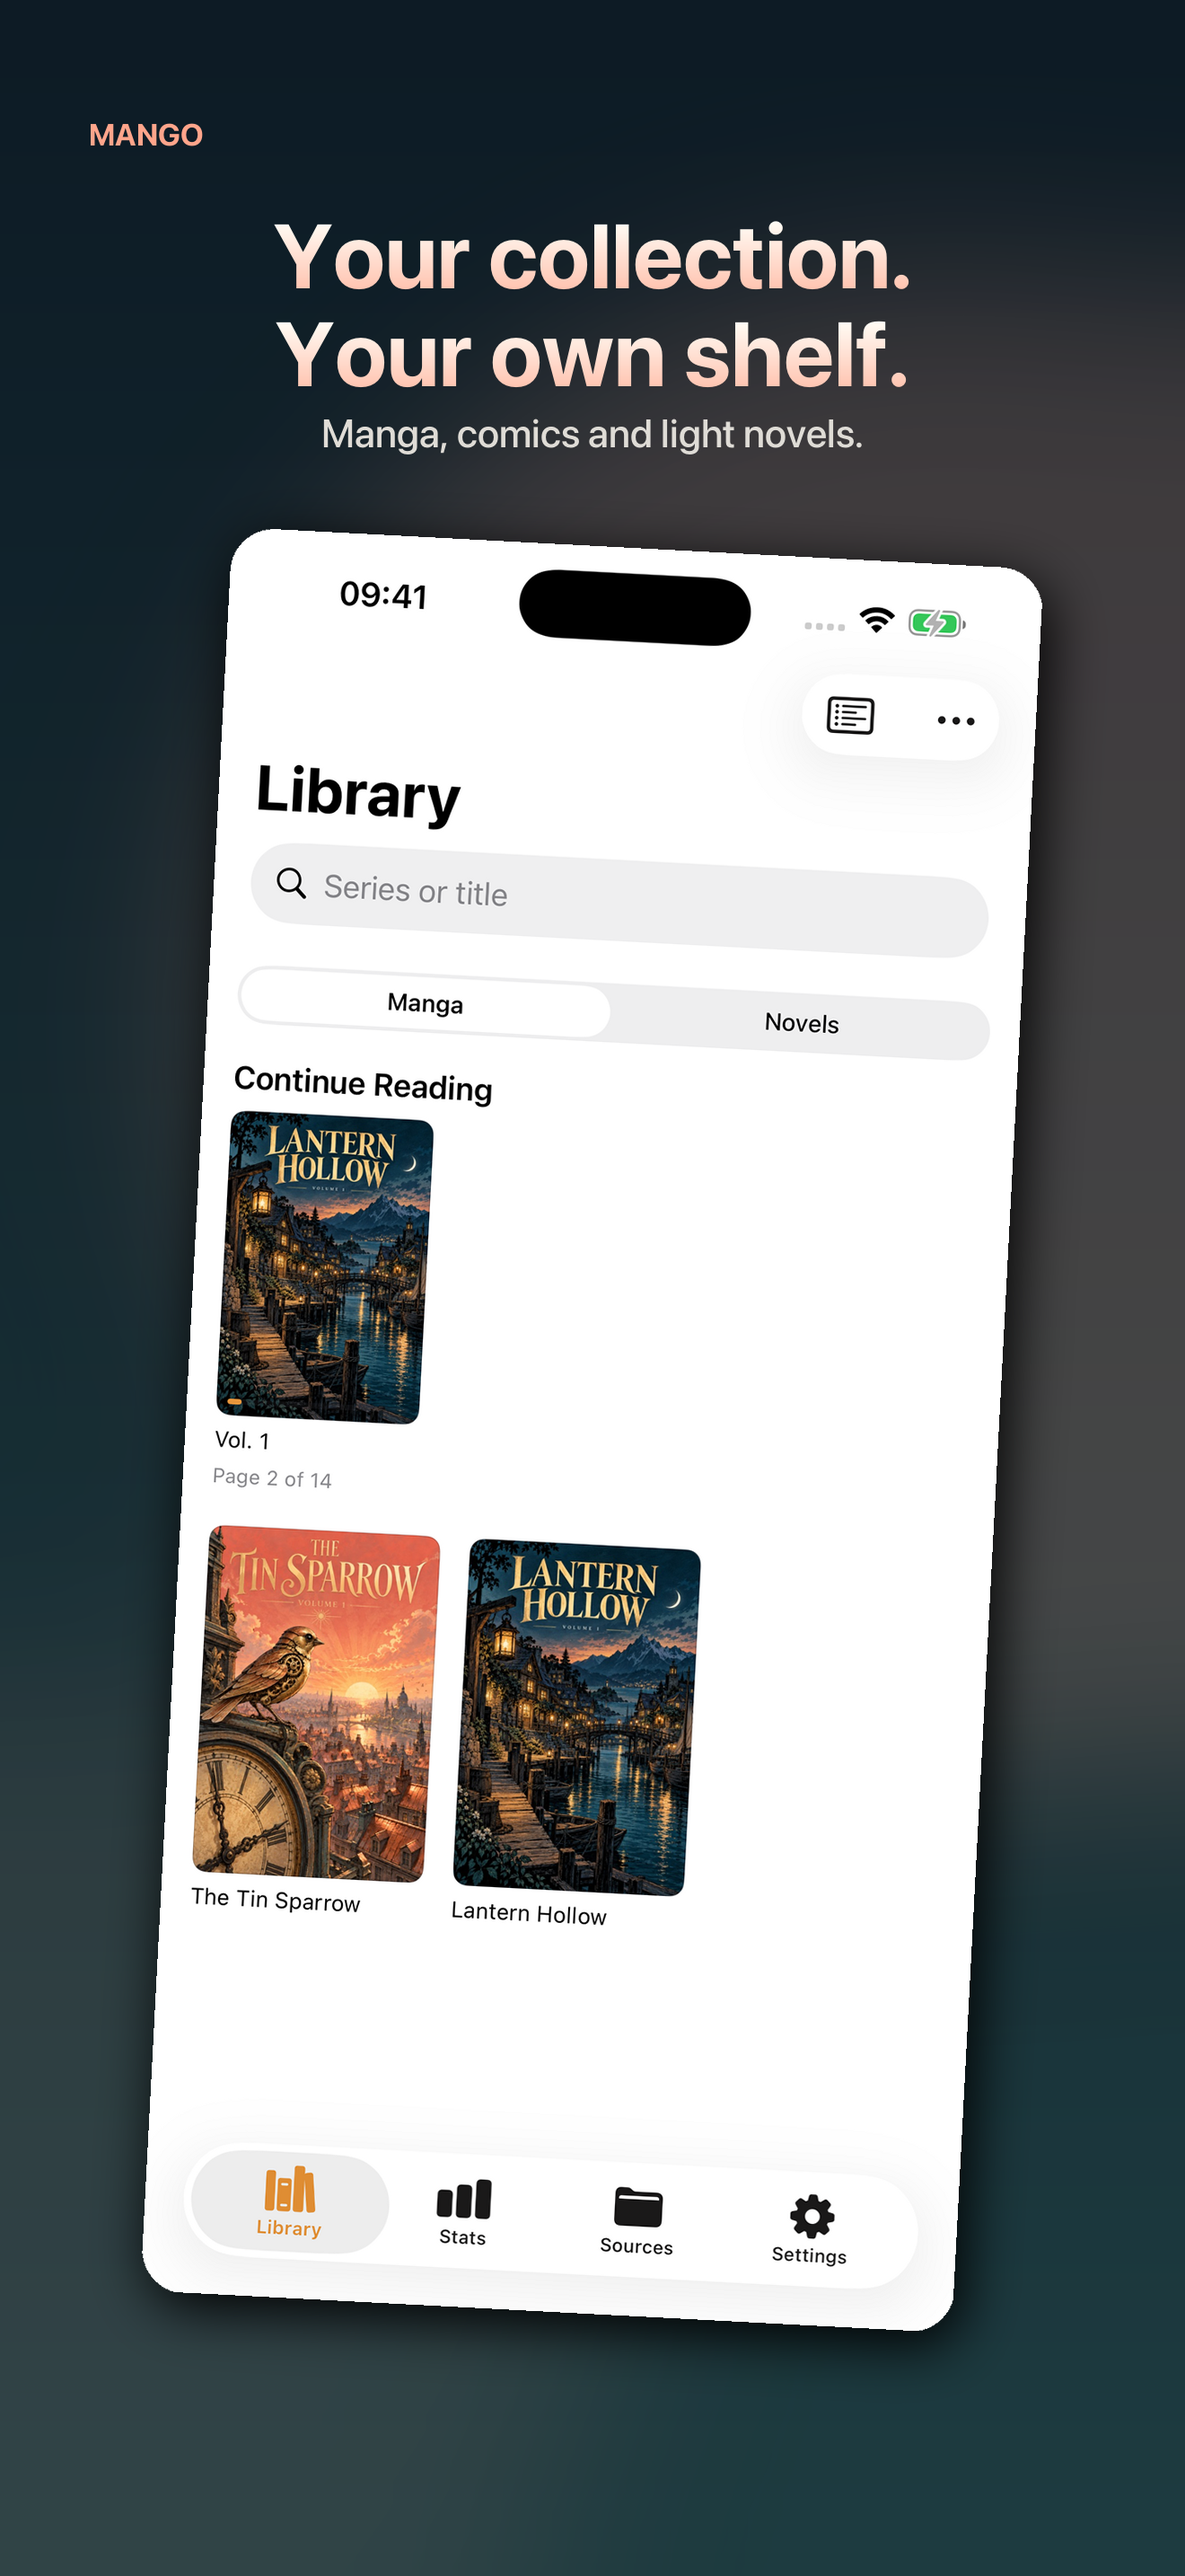
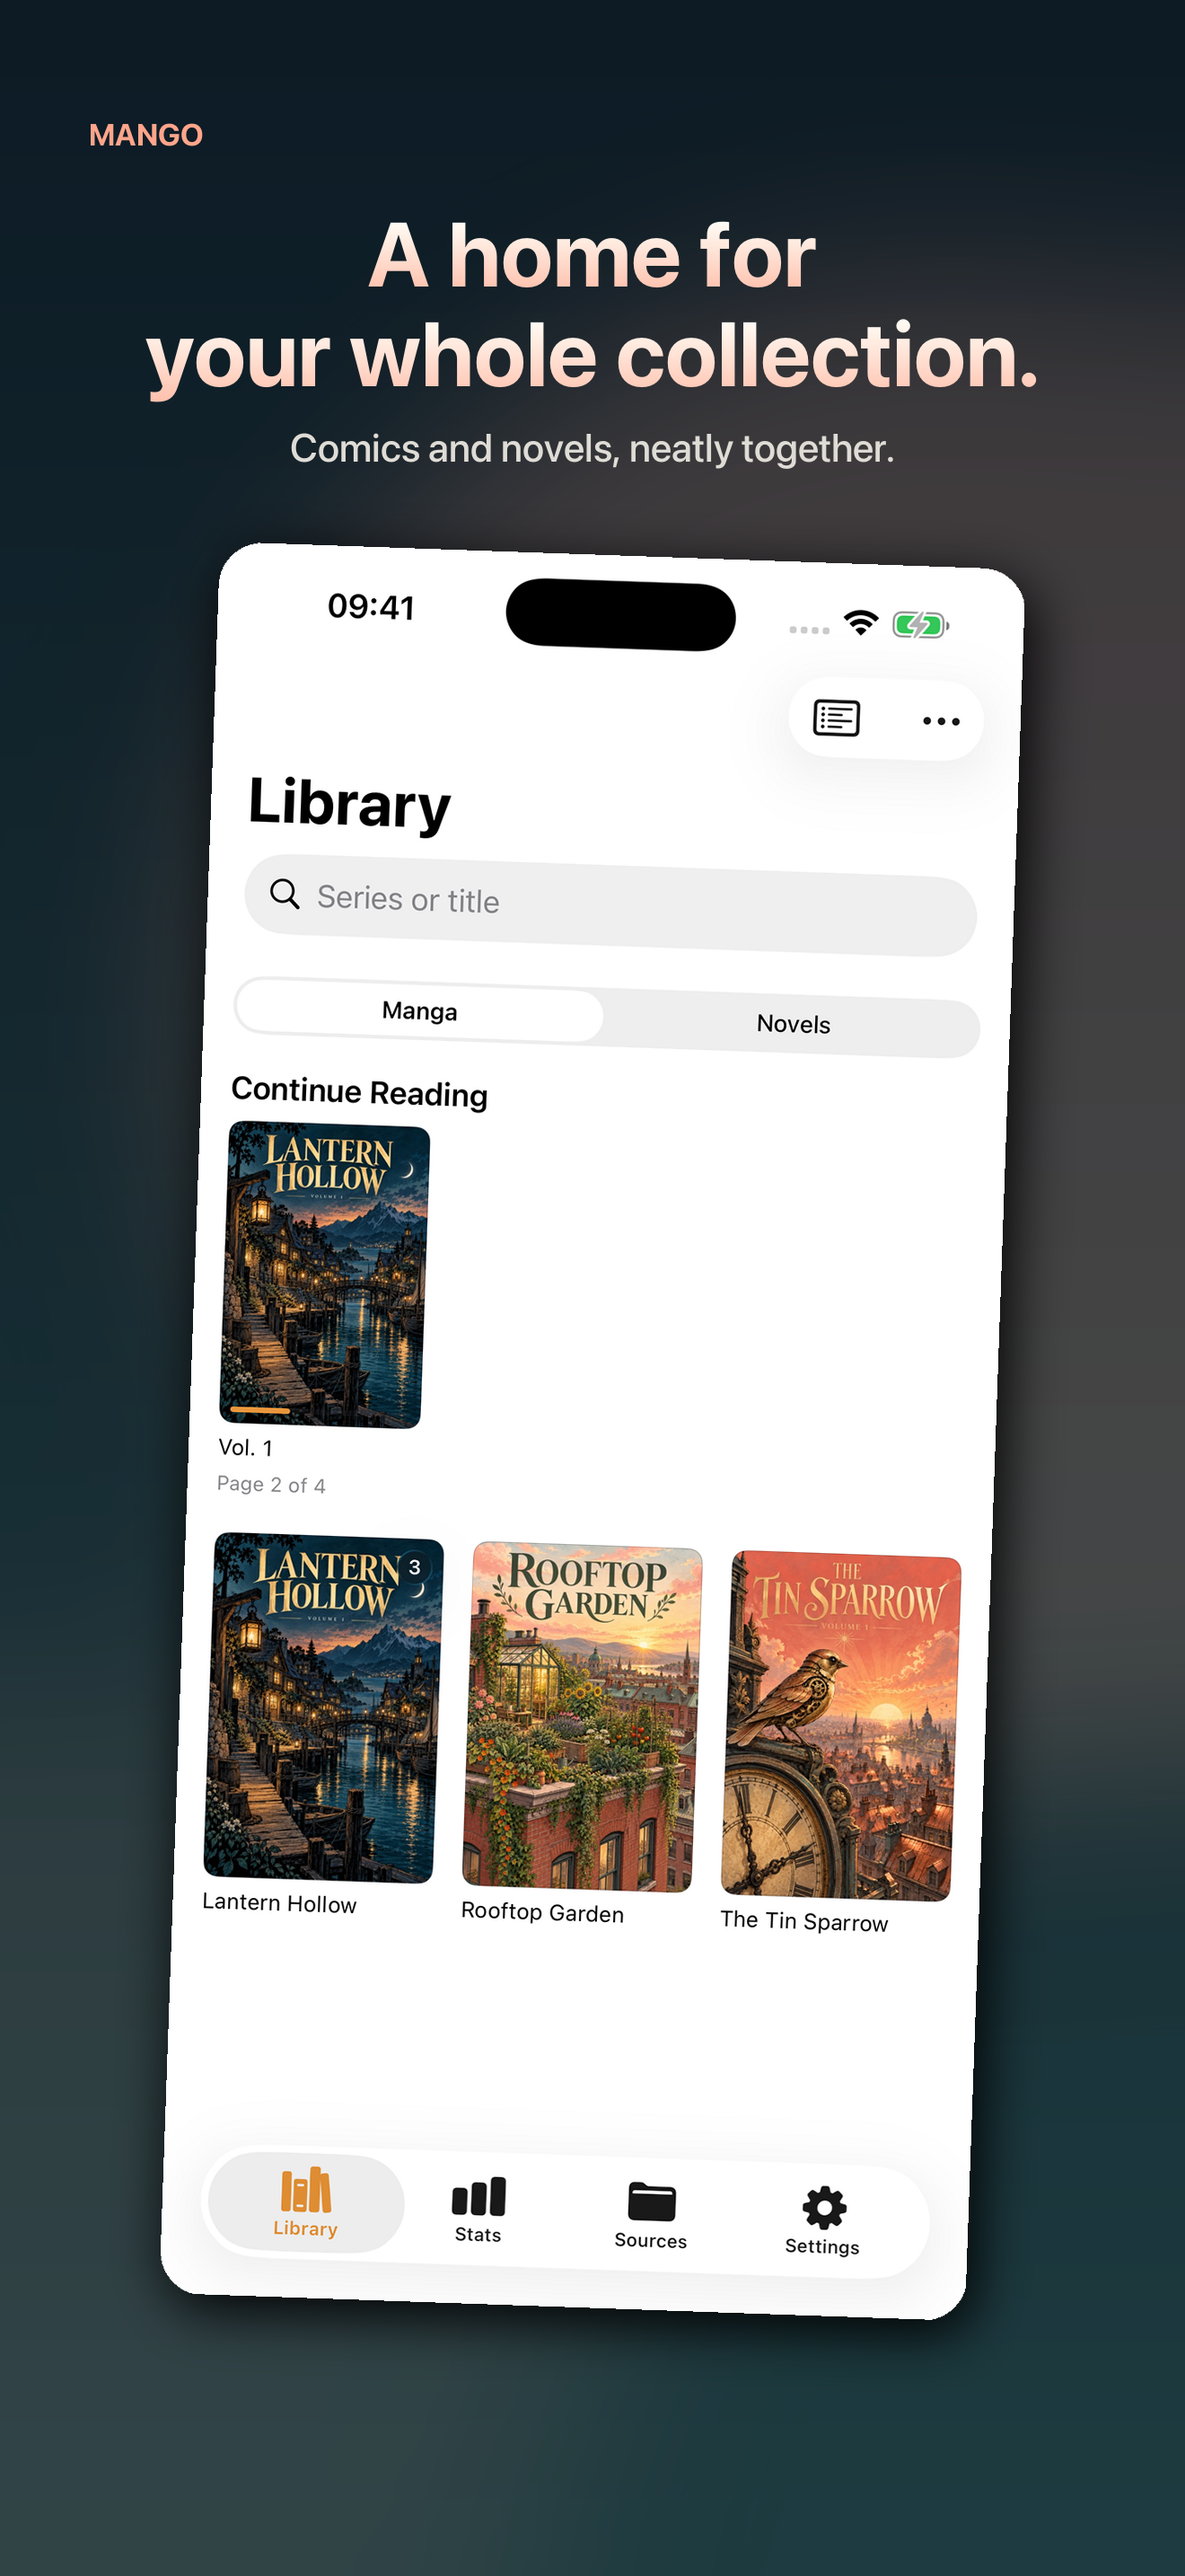
Expand iPhone and iPad screenshots to seven features each [ci skip]

diff --git a/marketing/README.md b/marketing/README.md
@@ -4,8 +4,8 @@ The en-US listing copy lives in `scripts/appstore.py` (`COPY`). The screenshots
 follow SwiftBible's large feature headlines, rich gradients and rounded real app
 captures, using coral over deep teal for Mango.
 
-The iPhone set shows comic reading, the library and EPUB reading. The iPad set
-focuses on comic and EPUB reading. All content is an invented demo library;
+Each seven-frame iPhone and iPad set shows comic and EPUB reading, library and
+series organization, page navigation, reading settings and chapters. All content is an invented demo library;
 Sources and personal libraries were never photographed. The listing clearly says
 that Mango includes no reading catalog.
 
@@ -55,3 +55,28 @@ and support contact information is present. Screenshot uploads are checked for
 COMPLETE delivery and correct order before resubmission. Build 59 and automatic
 release after approval are preserved. See `asc-verification.json` for final state;
 Waiting for Review does not mean approved or publicly available.
+
+## Expanded feature tour
+
+Both iPhone and iPad now have seven frames: comic reader, library, series,
+page grid, reading settings, EPUB reader and EPUB chapters. The expanded demo
+library includes three Lantern Hollow comic volumes, The Tin Sparrow,
+Rooftop Garden and a Lantern Hollow EPUB. New captures use four-page demo CBZs;
+the opening reader captures retain the earlier fourteen-page demo edition.
+All are fixtures made for this presentation, not a bundled catalog.
+
+Additional original artwork generated with the built-in image generation tool:
+
+`assets/harbor-page-2.png`:
+
+> Original wordless comic page in portrait format with four clearly separated panels and cream gutters. A quiet harbor adventure: top wide panel an antique sailboat leaving a lantern lit village at dawn; middle left panel closeup of a brass compass on a hand drawn sea map; middle right a seabird soaring over teal waves; bottom wide panel mysterious green island cliffs emerging from mist. No people. Sophisticated ink and gouache, deep teal and warm coral gold, polished narrative illustration. No lettering, no titles, no logos, no interface.
+
+`assets/harbor-page-3.png`:
+
+> Original wordless comic page in portrait format with five separated panels and cream gutters. An atmospheric exploration of a hidden island garden: wide top panel a stone archway covered with flowers and vines; two middle panels a small waterfall into a teal pool and an old brass key resting on moss; two bottom panels a winding stone stair and glowing lantern beside an open weathered wooden door. No people. Sophisticated ink and gouache, teal, jade, amber and coral colors, polished detailed graphic novel illustration. No text, logos or interface.
+
+`assets/rooftop-cover.png`:
+
+> Original portrait comic book cover titled ROOFTOP GARDEN in large elegant readable lettering. A lush garden of flowers and vegetables atop a red brick city building, a tiny greenhouse glowing at sunrise, copper city rooftops and distant hills. No people. Sophisticated ink and gouache illustration with coral, sage green and golden cream, beautifully detailed, inviting composition. Flat full bleed book cover, no logos, no app interface, no physical mockup.
+
+Preview the complete sequence: [iPhone](previews/iphone.jpg) · [iPad](previews/ipad.jpg).
